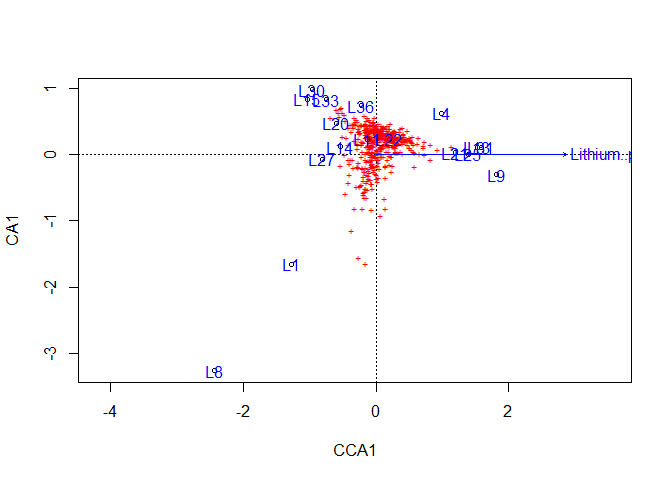
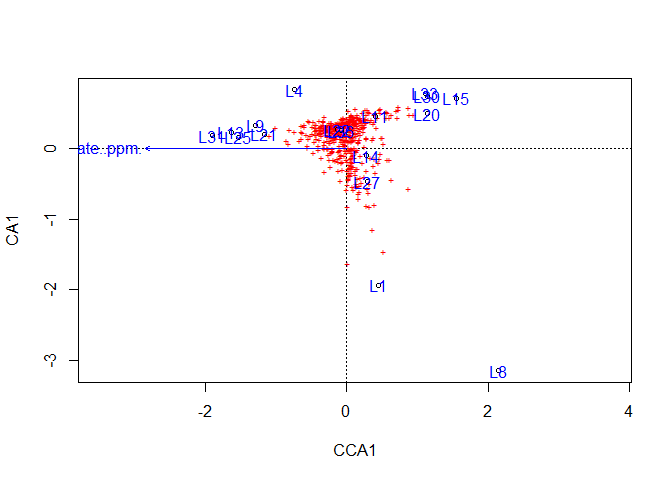
Add files via upload

diff --git a/JQ/6_CCA_W8.md b/JQ/6_CCA_W8.md
@@ -5,6 +5,240 @@ Juan Quijia
 
 # Loading packages
 
+``` r
+library("phyloseq")
+library("ggplot2")
+library("dplyr")
+```
+
+    ## 
+    ## Attaching package: 'dplyr'
+
+    ## The following objects are masked from 'package:stats':
+    ## 
+    ##     filter, lag
+
+    ## The following objects are masked from 'package:base':
+    ## 
+    ##     intersect, setdiff, setequal, union
+
+``` r
+library("ape")
+```
+
+    ## 
+    ## Attaching package: 'ape'
+
+    ## The following object is masked from 'package:dplyr':
+    ## 
+    ##     where
+
+``` r
+library("DESeq2")
+```
+
+    ## Loading required package: S4Vectors
+
+    ## Loading required package: stats4
+
+    ## Loading required package: BiocGenerics
+
+    ## 
+    ## Attaching package: 'BiocGenerics'
+
+    ## The following objects are masked from 'package:dplyr':
+    ## 
+    ##     combine, intersect, setdiff, union
+
+    ## The following objects are masked from 'package:stats':
+    ## 
+    ##     IQR, mad, sd, var, xtabs
+
+    ## The following objects are masked from 'package:base':
+    ## 
+    ##     anyDuplicated, aperm, append, as.data.frame, basename, cbind,
+    ##     colnames, dirname, do.call, duplicated, eval, evalq, Filter, Find,
+    ##     get, grep, grepl, intersect, is.unsorted, lapply, Map, mapply,
+    ##     match, mget, order, paste, pmax, pmax.int, pmin, pmin.int,
+    ##     Position, rank, rbind, Reduce, rownames, sapply, setdiff, sort,
+    ##     table, tapply, union, unique, unsplit, which.max, which.min
+
+    ## 
+    ## Attaching package: 'S4Vectors'
+
+    ## The following objects are masked from 'package:dplyr':
+    ## 
+    ##     first, rename
+
+    ## The following object is masked from 'package:utils':
+    ## 
+    ##     findMatches
+
+    ## The following objects are masked from 'package:base':
+    ## 
+    ##     expand.grid, I, unname
+
+    ## Loading required package: IRanges
+
+    ## 
+    ## Attaching package: 'IRanges'
+
+    ## The following objects are masked from 'package:dplyr':
+    ## 
+    ##     collapse, desc, slice
+
+    ## The following object is masked from 'package:phyloseq':
+    ## 
+    ##     distance
+
+    ## The following object is masked from 'package:grDevices':
+    ## 
+    ##     windows
+
+    ## Loading required package: GenomicRanges
+
+    ## Loading required package: GenomeInfoDb
+
+    ## Loading required package: SummarizedExperiment
+
+    ## Loading required package: MatrixGenerics
+
+    ## Loading required package: matrixStats
+
+    ## 
+    ## Attaching package: 'matrixStats'
+
+    ## The following object is masked from 'package:dplyr':
+    ## 
+    ##     count
+
+    ## 
+    ## Attaching package: 'MatrixGenerics'
+
+    ## The following objects are masked from 'package:matrixStats':
+    ## 
+    ##     colAlls, colAnyNAs, colAnys, colAvgsPerRowSet, colCollapse,
+    ##     colCounts, colCummaxs, colCummins, colCumprods, colCumsums,
+    ##     colDiffs, colIQRDiffs, colIQRs, colLogSumExps, colMadDiffs,
+    ##     colMads, colMaxs, colMeans2, colMedians, colMins, colOrderStats,
+    ##     colProds, colQuantiles, colRanges, colRanks, colSdDiffs, colSds,
+    ##     colSums2, colTabulates, colVarDiffs, colVars, colWeightedMads,
+    ##     colWeightedMeans, colWeightedMedians, colWeightedSds,
+    ##     colWeightedVars, rowAlls, rowAnyNAs, rowAnys, rowAvgsPerColSet,
+    ##     rowCollapse, rowCounts, rowCummaxs, rowCummins, rowCumprods,
+    ##     rowCumsums, rowDiffs, rowIQRDiffs, rowIQRs, rowLogSumExps,
+    ##     rowMadDiffs, rowMads, rowMaxs, rowMeans2, rowMedians, rowMins,
+    ##     rowOrderStats, rowProds, rowQuantiles, rowRanges, rowRanks,
+    ##     rowSdDiffs, rowSds, rowSums2, rowTabulates, rowVarDiffs, rowVars,
+    ##     rowWeightedMads, rowWeightedMeans, rowWeightedMedians,
+    ##     rowWeightedSds, rowWeightedVars
+
+    ## Loading required package: Biobase
+
+    ## Welcome to Bioconductor
+    ## 
+    ##     Vignettes contain introductory material; view with
+    ##     'browseVignettes()'. To cite Bioconductor, see
+    ##     'citation("Biobase")', and for packages 'citation("pkgname")'.
+
+    ## 
+    ## Attaching package: 'Biobase'
+
+    ## The following object is masked from 'package:MatrixGenerics':
+    ## 
+    ##     rowMedians
+
+    ## The following objects are masked from 'package:matrixStats':
+    ## 
+    ##     anyMissing, rowMedians
+
+    ## The following object is masked from 'package:phyloseq':
+    ## 
+    ##     sampleNames
+
+``` r
+library("vegan")
+```
+
+    ## Loading required package: permute
+
+    ## Loading required package: lattice
+
+    ## This is vegan 2.6-4
+
+``` r
+#library("ggtext") # Needed to italize letter in plot
+library("tidyverse")
+```
+
+    ## ── Attaching core tidyverse packages ──────────────────────── tidyverse 2.0.0 ──
+    ## ✔ forcats   1.0.0     ✔ stringr   1.5.0
+    ## ✔ lubridate 1.9.2     ✔ tibble    3.2.1
+    ## ✔ purrr     1.0.1     ✔ tidyr     1.3.0
+    ## ✔ readr     2.1.4
+
+    ## ── Conflicts ────────────────────────────────────────── tidyverse_conflicts() ──
+    ## ✖ lubridate::%within%()    masks IRanges::%within%()
+    ## ✖ IRanges::collapse()      masks dplyr::collapse()
+    ## ✖ Biobase::combine()       masks BiocGenerics::combine(), dplyr::combine()
+    ## ✖ matrixStats::count()     masks dplyr::count()
+    ## ✖ IRanges::desc()          masks dplyr::desc()
+    ## ✖ tidyr::expand()          masks S4Vectors::expand()
+    ## ✖ dplyr::filter()          masks stats::filter()
+    ## ✖ S4Vectors::first()       masks dplyr::first()
+    ## ✖ dplyr::lag()             masks stats::lag()
+    ## ✖ BiocGenerics::Position() masks ggplot2::Position(), base::Position()
+    ## ✖ purrr::reduce()          masks GenomicRanges::reduce(), IRanges::reduce()
+    ## ✖ S4Vectors::rename()      masks dplyr::rename()
+    ## ✖ lubridate::second()      masks S4Vectors::second()
+    ## ✖ lubridate::second<-()    masks S4Vectors::second<-()
+    ## ✖ IRanges::slice()         masks dplyr::slice()
+    ## ✖ ape::where()             masks dplyr::where()
+    ## ℹ Use the conflicted package (<http://conflicted.r-lib.org/>) to force all conflicts to become errors
+
+``` r
+library("microbiome")
+```
+
+    ## 
+    ## microbiome R package (microbiome.github.com)
+    ##     
+    ## 
+    ## 
+    ##  Copyright (C) 2011-2022 Leo Lahti, 
+    ##     Sudarshan Shetty et al. <microbiome.github.io>
+    ## 
+    ## 
+    ## Attaching package: 'microbiome'
+    ## 
+    ## The following object is masked from 'package:vegan':
+    ## 
+    ##     diversity
+    ## 
+    ## The following object is masked from 'package:SummarizedExperiment':
+    ## 
+    ##     coverage
+    ## 
+    ## The following object is masked from 'package:GenomicRanges':
+    ## 
+    ##     coverage
+    ## 
+    ## The following objects are masked from 'package:IRanges':
+    ## 
+    ##     coverage, transform
+    ## 
+    ## The following object is masked from 'package:S4Vectors':
+    ## 
+    ##     transform
+    ## 
+    ## The following object is masked from 'package:ggplot2':
+    ## 
+    ##     alpha
+    ## 
+    ## The following object is masked from 'package:base':
+    ## 
+    ##     transform
+
 # CCA analysis
 
 ## Preparing data
@@ -97,42 +331,42 @@ mod <- ordistep(mod0, scope = formula(CCA_analysis_raw), direction = "both", tra
     ## Start: comm_matrix ~ 1 
     ## 
     ##                   Df    AIC      F Pr(>F)   
-    ## + Lithium..ppm.    1 170.38 2.5493  0.005 **
-    ## + Potassium..ppm.  1 170.72 2.1955  0.005 **
-    ## + Phosphate..ppm.  1 170.59 2.3264  0.010 **
-    ## + Nitrate..ppm.    1 170.75 2.1673  0.010 **
-    ## + Magnesium..ppm.  1 170.78 2.1401  0.015 * 
-    ## + TN..mg.L.        1 170.70 2.2167  0.025 * 
-    ## + pH               1 171.07 1.8484  0.030 * 
-    ## + Chloride..ppm.   1 170.92 1.9990  0.065 . 
-    ## + Calcium..ppm.    1 171.24 1.6844  0.080 . 
-    ## + Sulfate..ppm.    1 172.00 0.9538  0.420   
-    ## + TOC..mg.L.       1 172.10 0.8548  0.550   
-    ## + Flouride..ppm.   1 172.14 0.8231  0.630   
+    ## + Phosphate..ppm.  1 170.59 2.3264  0.005 **
+    ## + Nitrate..ppm.    1 170.75 2.1673  0.015 * 
+    ## + TN..mg.L.        1 170.70 2.2167  0.020 * 
+    ## + Potassium..ppm.  1 170.72 2.1955  0.020 * 
+    ## + Magnesium..ppm.  1 170.78 2.1401  0.025 * 
+    ## + Lithium..ppm.    1 170.38 2.5493  0.030 * 
+    ## + pH               1 171.07 1.8484  0.040 * 
+    ## + Chloride..ppm.   1 170.92 1.9990  0.045 * 
+    ## + Calcium..ppm.    1 171.24 1.6844  0.050 * 
+    ## + Sulfate..ppm.    1 172.00 0.9538  0.455   
+    ## + TOC..mg.L.       1 172.10 0.8548  0.560   
+    ## + Flouride..ppm.   1 172.14 0.8231  0.620   
     ## + Sodium..ppm.     0 171.04                 
     ## ---
     ## Signif. codes:  0 '***' 0.001 '**' 0.01 '*' 0.05 '.' 0.1 ' ' 1
     ## 
-    ## Step: comm_matrix ~ Lithium..ppm. 
+    ## Step: comm_matrix ~ Phosphate..ppm. 
     ## 
-    ##                 Df    AIC      F Pr(>F)   
-    ## - Lithium..ppm.  1 171.04 2.5493   0.01 **
+    ##                   Df    AIC      F Pr(>F)   
+    ## - Phosphate..ppm.  1 171.04 2.3264  0.005 **
     ## ---
     ## Signif. codes:  0 '***' 0.001 '**' 0.01 '*' 0.05 '.' 0.1 ' ' 1
     ## 
     ##                   Df    AIC      F Pr(>F)
-    ## + pH               1 170.80 1.3583  0.180
-    ## + TN..mg.L.        1 170.92 1.2540  0.190
-    ## + Phosphate..ppm.  1 171.02 1.1632  0.225
-    ## + Potassium..ppm.  1 170.90 1.2701  0.230
-    ## + Nitrate..ppm.    1 170.91 1.2597  0.230
-    ## + Magnesium..ppm.  1 170.99 1.1934  0.265
-    ## + Chloride..ppm.   1 171.05 1.1356  0.280
-    ## + TOC..mg.L.       1 171.27 0.9447  0.470
-    ## + Calcium..ppm.    1 171.22 0.9853  0.485
-    ## + Flouride..ppm.   1 171.31 0.9057  0.520
-    ## + Sulfate..ppm.    1 171.47 0.7691  0.720
-    ## + Sodium..ppm.     0 170.38
+    ## + Lithium..ppm.    1 171.02 1.3583  0.135
+    ## + TOC..mg.L.       1 171.13 1.2556  0.165
+    ## + Sulfate..ppm.    1 171.14 1.2527  0.195
+    ## + Chloride..ppm.   1 171.32 1.0893  0.195
+    ## + Calcium..ppm.    1 171.35 1.0665  0.290
+    ## + Flouride..ppm.   1 171.48 0.9497  0.455
+    ## + pH               1 171.51 0.9213  0.465
+    ## + Magnesium..ppm.  1 171.65 0.7969  0.645
+    ## + Potassium..ppm.  1 171.61 0.8355  0.680
+    ## + TN..mg.L.        1 171.74 0.7214  0.735
+    ## + Nitrate..ppm.    1 171.72 0.7366  0.755
+    ## + Sodium..ppm.     0 170.59
 
 ``` r
 plot(mod)
@@ -167,7 +401,7 @@ adonis2(comm_matrix ~ pH + TOC..mg.L.+ TN..mg.L.+
     ## 
     ## adonis2(formula = comm_matrix ~ pH + TOC..mg.L. + TN..mg.L. + Phosphate..ppm. + Potassium..ppm. + Magnesium..ppm. + Calcium..ppm. + Sulfate..ppm. + Sodium..ppm. + Lithium..ppm. + Flouride..ppm. + Chloride..ppm. + Nitrate..ppm., data = env_data, method = "bray", sqrt.dist = TRUE, by = NULL)
     ##          Df SumOfSqs      R2      F Pr(>F)
-    ## Model    12  1.76639 0.78401 1.2099   0.12
+    ## Model    12  1.76639 0.78401 1.2099  0.122
     ## Residual  4  0.48664 0.21599              
     ## Total    16  2.25303 1.00000
 
@@ -186,7 +420,7 @@ adonis2(comm_matrix ~ Sulfate..ppm.+ Flouride..ppm. + Phosphate..ppm.,
     ## 
     ## adonis2(formula = comm_matrix ~ Sulfate..ppm. + Flouride..ppm. + Phosphate..ppm., data = env_data, method = "bray", sqrt.dist = TRUE, by = NULL)
     ##          Df SumOfSqs      R2      F Pr(>F)  
-    ## Model     3  0.50024 0.22203 1.2367  0.087 .
+    ## Model     3  0.50024 0.22203 1.2367  0.093 .
     ## Residual 13  1.75280 0.77797                
     ## Total    16  2.25303 1.00000                
     ## ---
@@ -208,7 +442,7 @@ adonis2(comm_matrix ~ Sulfate..ppm.+ Flouride..ppm.,
     ## 
     ## adonis2(formula = comm_matrix ~ Sulfate..ppm. + Flouride..ppm., data = env_data, method = "bray", sqrt.dist = TRUE, by = NULL)
     ##          Df SumOfSqs      R2      F Pr(>F)
-    ## Model     2  0.25393 0.11271 0.8892   0.67
+    ## Model     2  0.25393 0.11271 0.8892  0.681
     ## Residual 14  1.99910 0.88729              
     ## Total    16  2.25303 1.00000
 
@@ -223,7 +457,7 @@ adonis2(comm_matrix ~ Phosphate..ppm.,
     ## 
     ## adonis2(formula = comm_matrix ~ Phosphate..ppm., data = env_data, method = "bray", sqrt.dist = TRUE, by = NULL)
     ##          Df SumOfSqs      R2      F Pr(>F)  
-    ## Model     1  0.22856 0.10145 1.6935  0.015 *
+    ## Model     1  0.22856 0.10145 1.6935  0.019 *
     ## Residual 15  2.02447 0.89855                
     ## Total    16  2.25303 1.00000                
     ## ---
@@ -240,7 +474,7 @@ adonis2(comm_matrix ~ Phosphate..ppm.+ Sulfate..ppm.,
     ## 
     ## adonis2(formula = comm_matrix ~ Phosphate..ppm. + Sulfate..ppm., data = env_data, method = "bray", sqrt.dist = TRUE, by = NULL)
     ##          Df SumOfSqs      R2      F Pr(>F)  
-    ## Model     2  0.37879 0.16812 1.4147  0.037 *
+    ## Model     2  0.37879 0.16812 1.4147  0.038 *
     ## Residual 14  1.87425 0.83188                
     ## Total    16  2.25303 1.00000                
     ## ---
@@ -299,7 +533,7 @@ anova(CCA_analysis_final)
     ## 
     ## Model: cca(formula = comm_matrix ~ Phosphate..ppm. + Sulfate..ppm., data = env_data)
     ##          Df ChiSquare      F Pr(>F)  
-    ## Model     2  0.069674 1.8092   0.02 *
+    ## Model     2  0.069674 1.8092  0.024 *
     ## Residual 14  0.269582                
     ## ---
     ## Signif. codes:  0 '***' 0.001 '**' 0.01 '*' 0.05 '.' 0.1 ' ' 1
@@ -318,8 +552,8 @@ anova(CCA_analysis_final, by='term', permutations = 9000)
     ## 
     ## Model: cca(formula = comm_matrix ~ Phosphate..ppm. + Sulfate..ppm., data = env_data)
     ##                 Df ChiSquare      F   Pr(>F)   
-    ## Phosphate..ppm.  1  0.045552 2.3656 0.004555 **
-    ## Sulfate..ppm.    1  0.024122 1.2527 0.205088   
+    ## Phosphate..ppm.  1  0.045552 2.3656 0.004222 **
+    ## Sulfate..ppm.    1  0.024122 1.2527 0.210977   
     ## Residual        14  0.269582                   
     ## ---
     ## Signif. codes:  0 '***' 0.001 '**' 0.01 '*' 0.05 '.' 0.1 ' ' 1
@@ -338,8 +572,8 @@ anova(CCA_analysis_final, by='axis', permutations = 9000)
     ## 
     ## Model: cca(formula = comm_matrix ~ Phosphate..ppm. + Sulfate..ppm., data = env_data)
     ##          Df ChiSquare      F  Pr(>F)  
-    ## CCA1      1  0.053387 2.7725 0.01522 *
-    ## CCA2      1  0.016288 0.8459 0.57760  
+    ## CCA1      1  0.053387 2.7725 0.01644 *
+    ## CCA2      1  0.016288 0.8459 0.57260  
     ## Residual 14  0.269582                 
     ## ---
     ## Signif. codes:  0 '***' 0.001 '**' 0.01 '*' 0.05 '.' 0.1 ' ' 1
